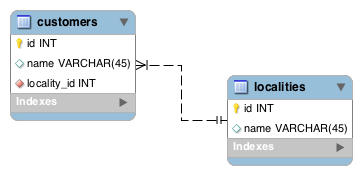
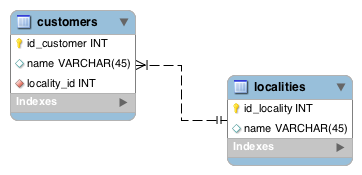
id column alias for complex ids when single primary key

Changed region(s): [[0.0912, 0.2, 0.3039, 0.2857], [0.6989, 0.5714, 0.8812, 0.6571]]

diff --git a/sqlalchemy_grt.py b/sqlalchemy_grt.py
@@ -1,6 +1,6 @@
 import re
 
-version = '0.2'
+version = '0.3'
 
 def camelize( name ):
     return re.sub(r"(?:^|_)(.)", lambda x: x.group(0)[-1].upper(), name)
@@ -48,6 +48,9 @@ def exportTable( table ):
     export.append("  ")
 
     for column in table.columns:
+        column_name = column.name
+        column_alias = ''
+
         type = camelize( column.formattedType.lower() )
         for o, n in (('Varchar', 'String'), ('Int', 'Integer')):
             type = type.replace(o,n)
@@ -67,6 +70,9 @@ def exportTable( table ):
             options.append('unsigned=True')
         if column.name in primary:
             options.append('primary_key=True')
+            if (len(primary) == 1) and (column_name != 'id'):
+                column_alias = '"%s", ' % column_name
+                column_name = 'id'
         if column.name in indices:
             options.append('index=True')
         if column.name in unique:
@@ -77,7 +83,7 @@ def exportTable( table ):
         else:
             options = ''
 
-        export.append("  %s = Column( %s%s )" % (column.name, type, options))
+        export.append("  %s = Column( %s%s%s )" % (column_name, column_alias, type, options))
 
     export.append("")
     for k, v in foreignKeys.items():

diff --git a/README.md b/README.md
@@ -13,16 +13,17 @@ On execution it should look like this:
 ```
 Executing script /Users/xxx/Library/Application Support/MySQL/Workbench/scripts/sqlalchemy_grt.py...
 --------------------
--- SQLAlchemy export v0.1
+-- SQLAlchemy export v0.3
 --------------------
  -> Working on customers
  -> Working on localities
 Copied to clipboard
 
 Script finished.
+
 ```
 
-The you just have to paste it somewhere, hopefully it looks like this:
+Then you just have to paste it somewhere, hopefully it looks like this:
 
 ```python
 from sqlalchemy.orm import relationship
@@ -34,9 +35,9 @@ Base = declarative_base()
 class Customer(Base):
   __tablename__ = 'customers'
   
-  id = Column( Integer, nullable=False, primary_key=True )
+  id = Column( "id_customer", Integer, nullable=False, primary_key=True )
   name = Column( String(45), index=True )
-  locality_id = Column( Integer, ForeignKey("localities.id", ondelete="CASCADE"), nullable=False, index=True )
+  locality_id = Column( Integer, ForeignKey("localities.id_locality", ondelete="CASCADE"), nullable=False, index=True )
 
   locality = relationship( "Locality", backref="customers" )
 
@@ -44,12 +45,12 @@ class Customer(Base):
     return self.__str__()
 
   def __str__( self ):
-    return '<Customer %(id)s>' % self.__dict__
+    return '<Customer %(id_customer)s>' % self.__dict__
 
 class Locality(Base):
   __tablename__ = 'localities'
   
-  id = Column( Integer, nullable=False, primary_key=True )
+  id = Column( "id_locality", Integer, nullable=False, primary_key=True )
   name = Column( String(45), unique=True )
 
 
@@ -57,5 +58,5 @@ class Locality(Base):
     return self.__str__()
 
   def __str__( self ):
-    return '<Locality %(id)s>' % self.__dict__
+    return '<Locality %(id_locality)s>' % self.__dict__
 ```
